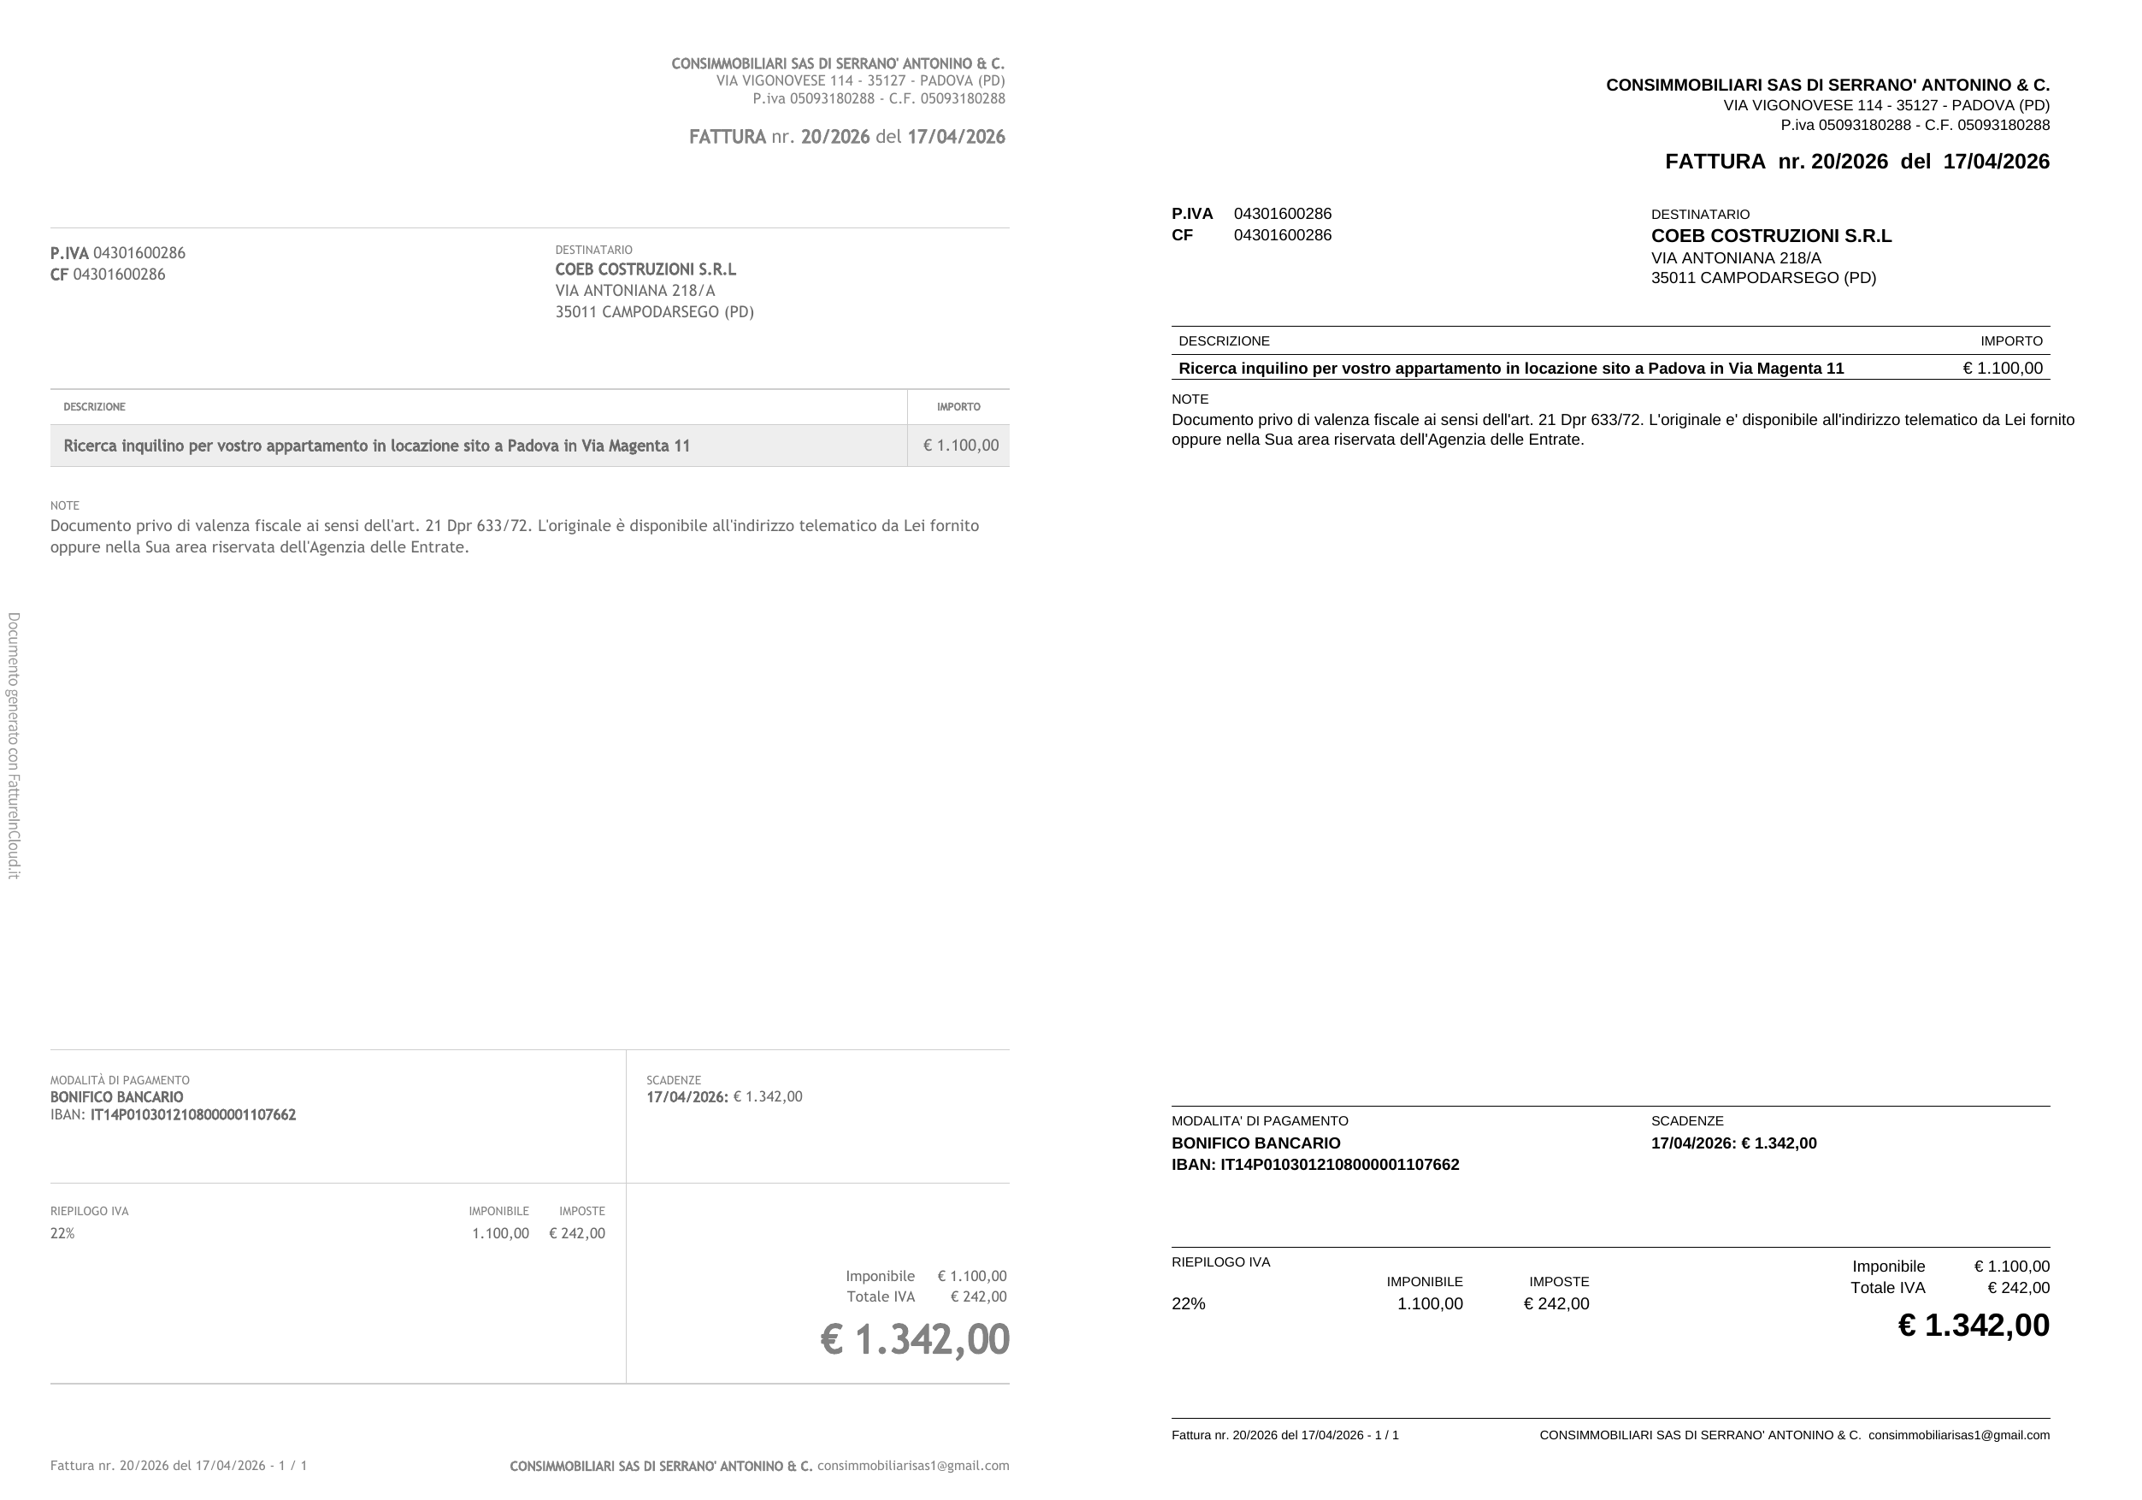
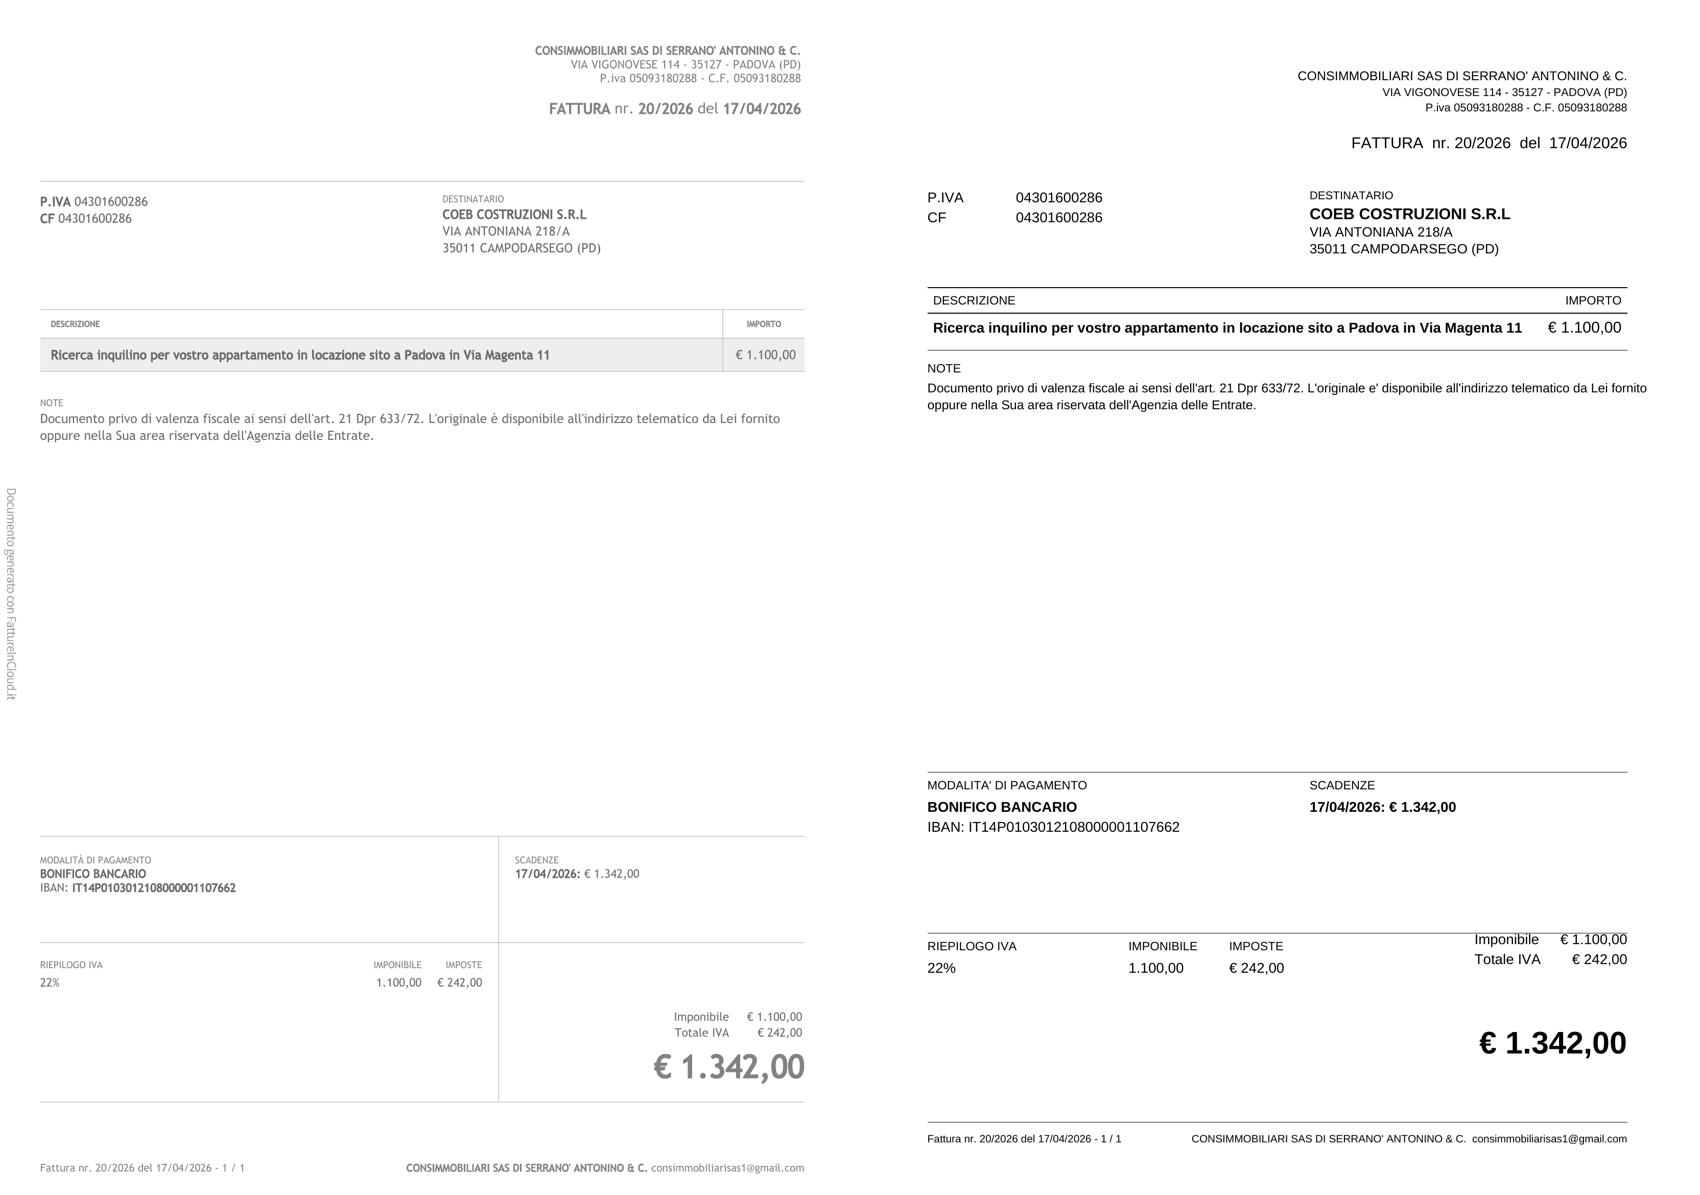
auto-commit for 14744925-bd7c-4375-94f7-fa3ed525e0fd

diff --git a/backend/services/invoice_pdf.py b/backend/services/invoice_pdf.py
@@ -96,19 +96,16 @@ def _wrap(text: str, max_chars: int):
 # ============================================================================
 def generate_fattura_pdf(data: dict) -> BytesIO:
     """
-    Required keys (all optional with defaults):
-      invoice_number    : "20/2026"  (or any string — sanitised to N/YYYY)
-      invoice_date      : "17/04/2026" or ISO
-      recipient_name    : "COEB COSTRUZIONI S.R.L"
-      recipient_address : "VIA ANTONIANA 218/A"
-      recipient_city    : "35011 CAMPODARSEGO (PD)"
-      recipient_piva    : "04301600286"
-      recipient_cf      : "04301600286"
-      line_description  : "Ricerca inquilino per vostro appartamento ..."
-      line_amount       : 1100.00     (imponibile)
-      vat_rate          : 22
-      due_date          : "17/04/2026"
-      page_index        : "1 / 1"
+    Drawn replica of the COEB Fattura reference. All elements use absolute
+    (x, y) coordinates with no flow / no auto layout.
+
+    Layout (top-down):
+      - top: issuer 3 lines (right) + FATTURA nr. line (right)
+      - upper third: P.IVA/CF (left) + DESTINATARIO (right)
+      - upper-mid: table (DESCRIZIONE/IMPORTO + 1 row)
+      - mid: NOTE block
+      - empty middle space
+      - bottom third: MODALITA' + SCADENZE / RIEPILOGO IVA + GRAND TOTAL / footer
     """
     buf = BytesIO()
     c = canvas.Canvas(buf, pagesize=A4)
@@ -117,145 +114,143 @@ def generate_fattura_pdf(data: dict) -> BytesIO:
     LEFT = 18 * mm
     RIGHT = W - 18 * mm
 
-    # ---------- 1) Top-right header (issuer, 3 lines) ----------
-    y = H - 18 * mm
-    c.setFont("Helvetica-Bold", 9.5)
+    # ===== TOP HEADER (issuer) — right-aligned ============================
+    y = H - 20 * mm
+    c.setFont("Helvetica", 9)
     c.drawRightString(RIGHT, y, ISSUER_NAME)
     y -= 11
-    c.setFont("Helvetica", 8.5)
+    c.setFont("Helvetica", 8)
     c.drawRightString(RIGHT, y, ISSUER_ADDR_FULL)
     y -= 11
     c.drawRightString(RIGHT, y, f"P.iva {ISSUER_PIVA} - C.F. {ISSUER_CF}")
 
-    # ---------- 2) "FATTURA nr. X/YYYY del DD/MM/YYYY" (right-aligned) ----------
+    # ===== "FATTURA nr. X/YYYY del DD/MM/YYYY" =============================
     inv_date_str = _fmt_date_it(data.get("invoice_date") or datetime.now().strftime("%Y-%m-%d"))
     try:
         year = int(inv_date_str.split("/")[-1])
     except (ValueError, IndexError):
         year = datetime.now().year
     inv_no = _short_invoice_no(data.get("invoice_number"), year)
-    y -= 22
-    c.setFont("Helvetica-Bold", 12)
+    y -= 26
+    c.setFont("Helvetica", 11)
     c.drawRightString(RIGHT, y, f"FATTURA  nr. {inv_no}  del  {inv_date_str}")
 
-    # ---------- 3) Recipient block (NO horizontal line above it) ----------
-    rec_y = y - 28
-    c.setFont("Helvetica-Bold", 9)
+    # ===== Recipient block =================================================
+    y -= 38
+    c.setFont("Helvetica", 10)
     if data.get("recipient_piva"):
-        c.drawString(LEFT, rec_y, "P.IVA")
-        c.setFont("Helvetica", 9)
-        c.drawString(LEFT + 35, rec_y, str(data["recipient_piva"]))
+        c.drawString(LEFT, y, "P.IVA")
+        c.drawString(LEFT + 22 * mm, y, str(data["recipient_piva"]))
     if data.get("recipient_cf"):
-        c.setFont("Helvetica-Bold", 9)
-        c.drawString(LEFT, rec_y - 12, "CF")
-        c.setFont("Helvetica", 9)
-        c.drawString(LEFT + 35, rec_y - 12, str(data["recipient_cf"]))
+        c.drawString(LEFT, y - 14, "CF")
+        c.drawString(LEFT + 22 * mm, y - 14, str(data["recipient_cf"]))
 
     rcol_x = LEFT + 95 * mm
-    c.setFont("Helvetica", 7.5)
-    c.drawString(rcol_x, rec_y, "DESTINATARIO")
-    c.setFont("Helvetica-Bold", 10.5)
-    c.drawString(rcol_x, rec_y - 13, str(data.get("recipient_name", "") or "").upper())
-    c.setFont("Helvetica", 9)
+    c.setFont("Helvetica", 8)
+    c.drawString(rcol_x, y + 2, "DESTINATARIO")
+    c.setFont("Helvetica-Bold", 11)
+    c.drawString(rcol_x, y - 12, str(data.get("recipient_name", "") or "").upper())
+    c.setFont("Helvetica", 9.5)
     rec_addr = str(data.get("recipient_address", "") or "").upper()
     rec_city = str(data.get("recipient_city", "") or "").upper()
     if rec_addr:
-        c.drawString(rcol_x, rec_y - 25, rec_addr)
+        c.drawString(rcol_x, y - 24, rec_addr)
     if rec_city:
-        c.drawString(rcol_x, rec_y - 36, rec_city)
+        c.drawString(rcol_x, y - 36, rec_city)
 
-    # ---------- 4) Item table (top horizontal line + DESCRIZIONE/IMPORTO row) ----------
-    table_top = rec_y - 60
+    # ===== Table: top line, header, row, bottom line =======================
+    table_top = y - 60
     c.setLineWidth(0.4)
     c.line(LEFT, table_top, RIGHT, table_top)
-    c.setFont("Helvetica", 7.5)
-    c.drawString(LEFT + 4, table_top - 11, "DESCRIZIONE")
-    c.drawRightString(RIGHT - 4, table_top - 11, "IMPORTO")
-    c.line(LEFT, table_top - 16, RIGHT, table_top - 16)
+    c.setFont("Helvetica", 8.5)
+    c.drawString(LEFT + 4, table_top - 12, "DESCRIZIONE")
+    c.drawRightString(RIGHT - 4, table_top - 12, "IMPORTO")
+    c.line(LEFT, table_top - 18, RIGHT, table_top - 18)
 
-    # Item row
     line_amount = float(data.get("line_amount", 0) or 0)
     desc_lines = _wrap(data.get("line_description", ""), 95)
-    row_h = 14 + (len(desc_lines) - 1) * 11
-    row_top = table_top - 16
-    row_bot = row_top - row_h
-    c.setFont("Helvetica-Bold", 9)
+    row_top = table_top - 18
+    c.setFont("Helvetica-Bold", 10)
     for i, ln in enumerate(desc_lines):
-        c.drawString(LEFT + 4, row_top - 11 - i * 11, ln)
-    c.setFont("Helvetica", 9.5)
-    c.drawRightString(RIGHT - 4, row_top - 11, _fmt_eur(line_amount))
+        c.drawString(LEFT + 4, row_top - 14 - i * 12, ln)
+    c.setFont("Helvetica", 11)
+    c.drawRightString(RIGHT - 4, row_top - 14, _fmt_eur(line_amount))
+    row_bot = row_top - (14 + len(desc_lines) * 12)
     c.line(LEFT, row_bot, RIGHT, row_bot)
 
-    # ---------- 5) NOTE / legal disclaimer (just below table, no separator) ----------
-    note_y = row_bot - 14
-    c.setFont("Helvetica", 7.5)
+    # ===== NOTE block ======================================================
+    note_y = row_bot - 16
+    c.setFont("Helvetica", 8.5)
     c.drawString(LEFT, note_y, "NOTE")
     c.setFont("Helvetica", 9)
-    c.drawString(LEFT, note_y - 12,
+    c.drawString(LEFT, note_y - 14,
                  "Documento privo di valenza fiscale ai sensi dell'art. 21 Dpr 633/72. "
                  "L'originale e' disponibile all'indirizzo telematico da Lei fornito")
-    c.drawString(LEFT, note_y - 23,
+    c.drawString(LEFT, note_y - 26,
                  "oppure nella Sua area riservata dell'Agenzia delle Entrate.")
 
-    # ---------- 6) MODALITÀ DI PAGAMENTO + SCADENZE (anchored toward bottom) ----------
-    pay_top = 78 * mm
+    # ===== BOTTOM SECTION (anchored to bottom of page) =====================
+    # Geometry from bottom (reference shows these in the lower third):
+    #   foot_y  = 12 mm (footer line)
+    #   bot_line= 18 mm (line above footer)
+    #   tot_y   = 35 mm (GRAND TOTAL)
+    #   sum_y   = 50 mm (Imponibile/Totale IVA stack)
+    #   riep_y  = 60 mm (RIEPILOGO IVA values + line)
+    #   pay_y   = 90 mm (MODALITA' + SCADENZE block top)
+    pay_top = 105 * mm
     c.setLineWidth(0.4)
     c.line(LEFT, pay_top, RIGHT, pay_top)
-    c.setFont("Helvetica", 7.5)
-    c.drawString(LEFT, pay_top - 11, "MODALITA' DI PAGAMENTO")
-    c.setFont("Helvetica-Bold", 9)
-    c.drawString(LEFT, pay_top - 24, "BONIFICO BANCARIO")
-    c.setFont("Helvetica-Bold", 9)
-    c.drawString(LEFT, pay_top - 36, f"IBAN: {BANK_IBAN}")
+
+    c.setFont("Helvetica", 8.5)
+    c.drawString(LEFT, pay_top - 12, "MODALITA' DI PAGAMENTO")
+    c.setFont("Helvetica-Bold", 10)
+    c.drawString(LEFT, pay_top - 28, "BONIFICO BANCARIO")
+    c.setFont("Helvetica", 10)
+    c.drawString(LEFT, pay_top - 42, f"IBAN: {BANK_IBAN}")
 
     sc_x = LEFT + 95 * mm
-    c.setFont("Helvetica", 7.5)
-    c.drawString(sc_x, pay_top - 11, "SCADENZE")
-    c.setFont("Helvetica-Bold", 9)
+    c.setFont("Helvetica", 8.5)
+    c.drawString(sc_x, pay_top - 12, "SCADENZE")
+    c.setFont("Helvetica-Bold", 10)
     due = _fmt_date_it(data.get("due_date") or data.get("invoice_date") or "")
     vat_rate = float(data.get("vat_rate", 22) or 0)
     imponibile = line_amount
     imposte = round(imponibile * vat_rate / 100.0, 2)
     totale = round(imponibile + imposte, 2)
-    c.drawString(sc_x, pay_top - 24, f"{due}: {_fmt_eur(totale)}")
+    c.drawString(sc_x, pay_top - 28, f"{due}: {_fmt_eur(totale)}")
 
-    # ---------- 7) Horizontal separator above RIEPILOGO IVA ----------
-    riep_top = 50 * mm
+    # RIEPILOGO IVA — separator at 65mm, content at 60mm-50mm
+    riep_top = 65 * mm
     c.line(LEFT, riep_top, RIGHT, riep_top)
-    c.setFont("Helvetica", 7.5)
-    c.drawString(LEFT, riep_top - 11, "RIEPILOGO IVA")
-    # column captions and values
-    col_alq = LEFT
-    col_imp = LEFT + 50 * mm
-    col_imposte = LEFT + 75 * mm
-    c.drawRightString(col_imp + 22, riep_top - 22, "IMPONIBILE")
-    c.drawRightString(col_imposte + 22, riep_top - 22, "IMPOSTE")
-    c.setFont("Helvetica", 9.5)
-    c.drawString(col_alq, riep_top - 35, f"{int(vat_rate)}%")
-    c.drawRightString(col_imp + 22, riep_top - 35, _fmt_eur(imponibile, with_symbol=False))
-    c.drawRightString(col_imposte + 22, riep_top - 35, _fmt_eur(imposte))
+    c.setFont("Helvetica", 8.5)
+    c.drawString(LEFT, riep_top - 12, "RIEPILOGO IVA")
+    c.drawString(LEFT + 50 * mm, riep_top - 12, "IMPONIBILE")
+    c.drawString(LEFT + 75 * mm, riep_top - 12, "IMPOSTE")
+    c.setFont("Helvetica", 10)
+    c.drawString(LEFT, riep_top - 28, f"{int(vat_rate)}%")
+    c.drawString(LEFT + 50 * mm, riep_top - 28, _fmt_eur(imponibile, with_symbol=False))
+    c.drawString(LEFT + 75 * mm, riep_top - 28, _fmt_eur(imposte))
 
-    # ---------- 8) Right side: Imponibile / Totale IVA / GRAND TOTAL ----------
-    tx_right = RIGHT
-    ty = riep_top - 14
-    c.setFont("Helvetica", 9)
-    c.drawRightString(tx_right - 70, ty, "Imponibile")
-    c.drawRightString(tx_right, ty, _fmt_eur(imponibile))
-    ty -= 12
-    c.drawRightString(tx_right - 70, ty, "Totale IVA")
-    c.drawRightString(tx_right, ty, _fmt_eur(imposte))
-    ty -= 24
-    c.setFont("Helvetica-Bold", 18)
-    c.drawRightString(tx_right, ty, _fmt_eur(totale))
+    # Right-side stack: Imponibile / Totale IVA / GRAND TOTAL
+    sum_y = riep_top - 8
+    c.setFont("Helvetica", 10)
+    c.drawString(RIGHT - 38 * mm, sum_y, "Imponibile")
+    c.drawRightString(RIGHT, sum_y, _fmt_eur(imponibile))
+    c.drawString(RIGHT - 38 * mm, sum_y - 14, "Totale IVA")
+    c.drawRightString(RIGHT, sum_y - 14, _fmt_eur(imposte))
+    # GRAND TOTAL — large bold, ~25mm above bottom line
+    c.setFont("Helvetica-Bold", 22)
+    c.drawRightString(RIGHT, 35 * mm, _fmt_eur(totale))
 
-    # ---------- 9) Bottom footer line + tiny captions ----------
-    foot_y = 12 * mm
+    # Bottom footer line + caption
     c.setLineWidth(0.3)
-    c.line(LEFT, foot_y + 12, RIGHT, foot_y + 12)
-    c.setFont("Helvetica", 7)
+    c.line(LEFT, 18 * mm, RIGHT, 18 * mm)
+    c.setFont("Helvetica", 7.5)
     page_idx = data.get("page_index", "1 / 1")
-    c.drawString(LEFT, foot_y, f"Fattura nr. {inv_no} del {inv_date_str} - {page_idx}")
-    c.drawRightString(RIGHT, foot_y, f"{ISSUER_NAME}  {ISSUER_EMAIL}")
+    c.drawString(LEFT, 13 * mm,
+                 f"Fattura nr. {inv_no} del {inv_date_str} - {page_idx}")
+    c.drawRightString(RIGHT, 13 * mm,
+                      f"{ISSUER_NAME}  {ISSUER_EMAIL}")
 
     c.showPage()
     c.save()
